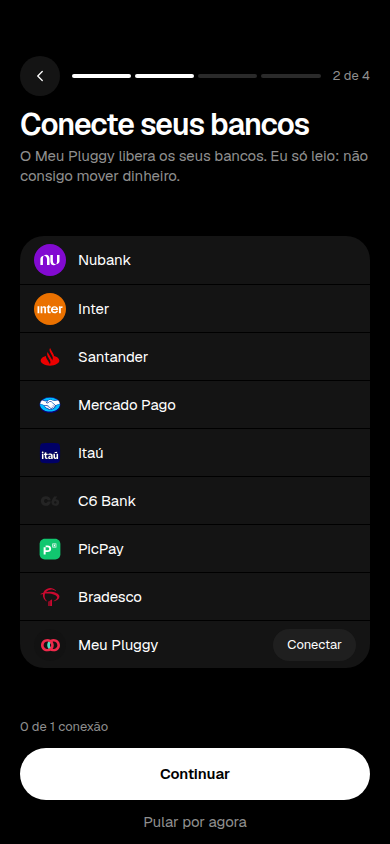
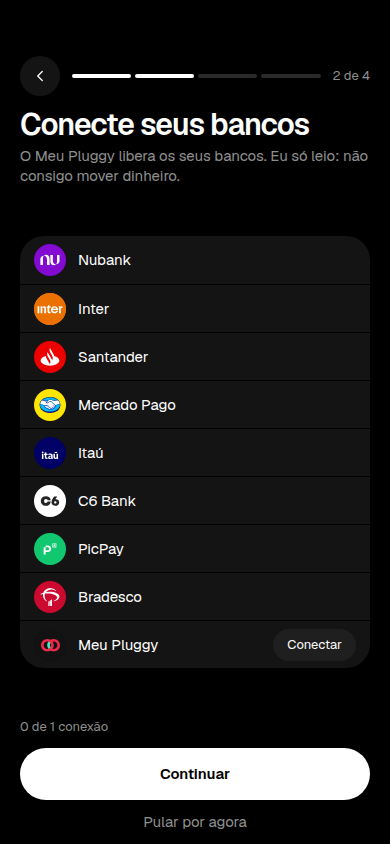
fix(mobile): cada banco fica num círculo com a cor da marca
O C6 sumia no card escuro. Santander, Bradesco e Mercado Pago também ficavam sem disco. Agora todos ocupam o círculo inteiro: símbolo claro sobre a cor da marca, C6 escuro no branco e Mercado Pago no amarelo.

Changed region(s): [[0.0923, 0.4005, 0.1846, 0.7393]]

diff --git a/apps/mobile/src/features/onboarding/bank-svgs.ts b/apps/mobile/src/features/onboarding/bank-svgs.ts
@@ -1,7 +1,7 @@
 /**
  * Ícones dos bancos na primeira vez. Copiados dos ícones públicos dos conectores
  * (https://cdn.pluggy.ai/assets/connector-icons/). As marcas são das instituições;
- * o uso é só para identificá-las. O Nubank vem em branco para ficar sobre o roxo da marca.
+ * o uso é só para identificá-las. Nubank, Santander e Bradesco vêm em branco, sobre o disco da marca.
  * O Meu Pluggy usa o ícone do conector 200 (sandbox.svg).
  */
 export const BANK_SVGS = {
@@ -10,7 +10,7 @@ export const BANK_SVGS = {
 	inter:
 		'<svg width="512" height="512" viewBox="0 0 512 512" fill="none" xmlns="http://www.w3.org/2000/svg">\n<g clip-path="url(#clip0_7456_10788)">\n<path d="M0 85.3333C0 38.205 38.205 0 85.3333 0H426.667C473.795 0 512 38.205 512 85.3333V426.667C512 473.795 473.795 512 426.667 512H85.3333C38.205 512 0 473.795 0 426.667V85.3333Z" fill="#EA7100"/>\n<path d="M243.737 299.079H266.58V323.666H247.596C227.615 323.666 215.353 316.757 215.353 291.423V236.524H201.784C199.419 236.524 198.174 233.66 199.792 231.918L239.068 187.351C240.749 185.546 243.799 186.728 243.799 189.218V211.937H266.456V236.524H243.799V299.079H243.737ZM162.321 210.132C148.69 210.132 138.481 217.975 133.502 230.299H132.568V211.875H105.492V323.666H133.938V237.022H152.922C161.201 237.022 164.251 238.765 164.251 247.603V323.666H192.696V242.063C192.634 219.593 181.866 210.132 162.321 210.132ZM56.3188 323.666H84.7645V211.875H56.3188V323.666ZM428.478 231.669H427.295V211.875H399.036V323.666H429.163V238.578H455.679V210.132H452.006C438.064 210.132 431.901 216.294 428.478 231.669ZM385.841 264.907V273.372H300.566C302.122 289.992 312.517 301.009 328.576 301.009C342.954 301.009 353.349 293.353 355.465 283.892H385.778C379.429 307.482 357.768 325.533 328.14 325.533C293.594 325.533 270.128 300.947 270.128 268.704C270.128 236.461 292.785 210.132 328.887 210.132C362.997 210.132 385.841 233.598 385.841 264.907ZM301.437 252.769H356.461C352.166 241.566 343.079 233.536 329.012 233.536C316.687 233.598 305.857 240.072 301.437 252.769Z" fill="white"/>\n</g>\n<defs>\n<clipPath id="clip0_7456_10788">\n<rect width="512" height="512" fill="white"/>\n</clipPath>\n</defs>\n</svg>',
 	santander:
-		'<svg xmlns="http://www.w3.org/2000/svg" viewBox="0 0 500 500"><g id="Camada_2" data-name="Camada 2"><g id="fundo"><rect fill="none" width="500" height="500" rx="250"/></g><g id="logos"><path fill="#ec0000" d="M313.37,234.25A64.11,64.11,0,0,0,305,205.2L259.16,126A62.35,62.35,0,0,1,252,106.72L250,110a63.79,63.79,0,0,0,0,63.57l36.66,63.56a63.79,63.79,0,0,1,0,63.57l-2,3.32A59.68,59.68,0,0,0,277.49,285L244,226.65,222.51,189.6a63.44,63.44,0,0,1-7.22-19.11l-1.95,3.31a63.88,63.88,0,0,0-.19,63.37h0L250,300.74a63.79,63.79,0,0,1,0,63.57l-1.95,3.32a64.47,64.47,0,0,0-7.21-19.11L195,269a63,63,0,0,1-8.38-34.51c-49.14,12.67-83.07,40-83.07,71.56,0,43.87,65.52,79.36,146.44,79.36S396.44,349.88,396.44,306C396.44,274.42,362.51,247.12,313.37,234.25Z"/></g></g></svg>',
+		'<svg xmlns="http://www.w3.org/2000/svg" viewBox="0 0 500 500"><g id="Camada_2" data-name="Camada 2"><g id="fundo"><rect fill="none" width="500" height="500" rx="250"/></g><g id="logos"><path fill="#FFFFFF" d="M313.37,234.25A64.11,64.11,0,0,0,305,205.2L259.16,126A62.35,62.35,0,0,1,252,106.72L250,110a63.79,63.79,0,0,0,0,63.57l36.66,63.56a63.79,63.79,0,0,1,0,63.57l-2,3.32A59.68,59.68,0,0,0,277.49,285L244,226.65,222.51,189.6a63.44,63.44,0,0,1-7.22-19.11l-1.95,3.31a63.88,63.88,0,0,0-.19,63.37h0L250,300.74a63.79,63.79,0,0,1,0,63.57l-1.95,3.32a64.47,64.47,0,0,0-7.21-19.11L195,269a63,63,0,0,1-8.38-34.51c-49.14,12.67-83.07,40-83.07,71.56,0,43.87,65.52,79.36,146.44,79.36S396.44,349.88,396.44,306C396.44,274.42,362.51,247.12,313.37,234.25Z"/></g></g></svg>',
 	mercadopago:
 		'<svg width="512" height="512" viewBox="0 0 512 512" fill="none" xmlns="http://www.w3.org/2000/svg">\n<path d="M254.839 133.781C164.892 134.683 92.4993 186.979 93.137 250.594C93.7747 314.207 167.252 370.034 257.2 369.131C347.148 368.229 419.487 310.935 418.85 247.326C418.211 183.716 344.783 132.878 254.839 133.781Z" fill="#00BCFF"/>\n<path d="M202.646 213.889C202.566 214.065 200.993 215.902 202.04 217.354C204.592 220.886 212.392 222.847 220.238 220.816C224.911 219.607 230.861 214.266 236.625 209.107C242.122 203.477 248.446 198.923 255.327 195.641C259.727 193.809 264.551 193.622 269.061 195.107C273.645 196.936 277.91 199.626 281.666 203.06C292.674 212.025 337.002 253.951 344.663 261.197C367.866 250.246 391.917 241.622 416.524 235.429C413.097 213.715 401.058 193.104 382.745 176.996C357.563 188.997 324.656 196.36 294.263 180.345C283.939 175.308 272.805 172.627 261.53 172.465C237.553 173.323 227.278 184.9 216.406 197.157L202.646 213.889Z" fill="white"/>\n<path d="M342.925 265.824C342.403 265.318 290.803 216.393 279.127 206.889C275.053 202.962 270.052 200.401 264.711 199.506C262.415 199.327 260.107 199.596 257.896 200.3C251.087 203.215 244.804 207.445 239.338 212.794C232.924 218.56 226.874 223.988 221.22 225.449C214.387 227.073 207.25 225.961 201.08 222.311C199.634 221.354 198.463 219.965 197.702 218.302C197.279 217.028 197.209 215.642 197.5 214.325C197.791 213.007 198.431 211.816 199.336 210.903L213.272 193.897C214.896 192.073 216.525 190.244 218.202 188.448C213.86 189.214 209.574 190.326 205.378 191.777C200.546 193.606 195.511 194.697 190.411 195.019C185.263 194.495 180.144 193.664 175.075 192.527C159.961 188.768 145.189 183.471 130.951 176.705C111.066 193.408 98.2123 213.799 94.5654 236.563C97.4545 237.375 105.023 239.202 106.979 239.661C152.467 250.359 166.713 261.706 169.301 264.081C170.789 262.19 172.648 260.697 174.736 259.715C176.824 258.733 179.087 258.288 181.355 258.413C183.622 258.538 185.835 259.23 187.83 260.436C189.823 261.642 191.543 263.331 192.862 265.378C195.895 262.611 199.699 261.088 203.635 261.062C205.846 261.064 208.042 261.467 210.137 262.254C212.166 262.949 214.039 264.114 215.629 265.671C217.22 267.229 218.492 269.143 219.361 271.286C221.335 270.273 223.483 269.745 225.66 269.739C228.264 269.749 230.839 270.35 233.227 271.504C236.547 273.183 239.256 276.057 240.911 279.656C242.566 283.255 243.066 287.365 242.333 291.315C242.932 291.237 243.535 291.196 244.139 291.191C248.909 291.151 253.501 293.205 256.91 296.9C260.319 300.595 262.266 305.632 262.324 310.904C262.358 314.183 261.651 317.417 260.267 320.315C264.995 323.441 270.436 324.993 275.937 324.784C277.308 324.771 278.662 324.445 279.914 323.826C281.166 323.207 282.287 322.309 283.209 321.187C283.655 320.479 284.118 319.649 283.673 319.058L270.712 303.467C270.712 303.467 268.584 301.284 269.271 300.428C269.981 299.546 271.297 300.787 272.23 301.63C278.805 307.579 286.848 316.579 286.848 316.579C286.989 316.676 287.523 317.822 290.47 318.376C292.233 318.696 294.034 318.621 295.769 318.156C297.503 317.69 299.133 316.843 300.564 315.664C301.372 314.901 302.11 314.049 302.765 313.123C302.721 313.172 302.672 313.216 302.618 313.253C303.501 311.872 303.936 310.202 303.853 308.511C303.77 306.821 303.172 305.209 302.158 303.939L287.025 285.533C287.025 285.533 284.864 283.366 285.589 282.487C286.23 281.716 287.614 282.855 288.562 283.705C293.335 288.032 300.097 295.378 306.575 302.26C308.727 303.836 311.274 304.617 313.85 304.493C316.428 304.369 318.9 303.344 320.913 301.567C322.567 300.535 323.929 299.016 324.847 297.178C325.765 295.341 326.203 293.257 326.115 291.158C325.765 288.535 324.629 286.118 322.889 284.292L302.251 261.801C302.251 261.801 300.068 259.785 300.824 258.751C301.442 257.877 302.844 259.109 303.777 259.95C310.339 265.902 328.122 283.574 328.122 283.574C330.211 285.033 332.645 285.77 335.113 285.691C337.58 285.612 339.969 284.72 341.973 283.13C343.262 282.278 344.342 281.091 345.12 279.671C345.899 278.252 346.351 276.644 346.439 274.985C346.483 273.27 346.191 271.565 345.585 269.983C344.979 268.403 344.071 266.984 342.925 265.824Z" fill="white"/>\n<path d="M244.181 295.582C241.788 295.978 239.426 296.583 237.118 297.388C236.864 297.211 237.295 295.798 237.582 294.985C237.882 294.179 241.912 280.266 231.699 275.555C229.411 274.229 226.798 273.753 224.25 274.199C221.701 274.646 219.353 275.99 217.553 278.032C217.133 278.528 216.939 278.489 216.886 277.869C216.799 275.28 215.981 272.783 214.548 270.732C213.114 268.679 211.136 267.173 208.891 266.426C205.711 265.379 202.313 265.496 199.202 266.758C196.092 268.019 193.436 270.36 191.629 273.43C191.274 270.697 190.098 268.175 188.288 266.272C186.478 264.368 184.143 263.192 181.657 262.936C179.172 262.68 176.683 263.357 174.592 264.858C172.501 266.359 170.931 268.597 170.134 271.209C169.338 273.822 169.361 276.657 170.202 279.257C171.043 281.856 172.652 284.068 174.767 285.535C176.884 287.002 179.384 287.638 181.865 287.342C184.345 287.044 186.661 285.831 188.438 283.898C188.502 283.962 188.528 284.077 188.499 284.311C187.785 288.117 188.335 292.085 190.049 295.486C191.764 298.887 194.528 301.494 197.834 302.831C199.621 303.572 201.551 303.783 203.432 303.442C205.312 303.102 207.079 302.221 208.556 300.891C209.432 300.195 209.577 300.483 209.462 301.403C209.112 304.252 209.655 310.339 217.415 313.719C219.339 314.738 221.507 315.043 223.599 314.591C225.691 314.14 227.593 312.955 229.025 311.212C230.009 310.206 230.282 310.366 230.349 311.911C230.503 314.94 231.459 317.854 233.097 320.29C234.735 322.727 236.983 324.581 239.563 325.619C242.143 326.658 244.939 326.838 247.607 326.135C250.274 325.432 252.696 323.88 254.57 321.668C256.443 319.456 257.686 316.685 258.147 313.695C258.606 310.706 258.262 307.631 257.156 304.854C256.049 302.076 254.23 299.717 251.924 298.068C249.619 296.42 246.927 295.556 244.183 295.582H244.181Z" fill="white"/>\n<path d="M254.763 129.012C163.102 129.932 89.3414 184.575 90.0044 250.684C90.0215 252.393 90.0502 257.111 90.0562 257.71C90.7596 327.852 156.273 384 257.289 382.987C358.916 381.967 422.697 324.533 421.994 254.392L421.924 247.354C421.259 181.244 346.416 128.092 254.763 129.012ZM414.307 234.13C390.452 240.219 367.19 248.844 344.844 259.883C328.945 244.853 292.214 210.243 282.28 202.17C278.424 198.656 274.05 195.904 269.35 194.034C267.303 193.343 265.174 192.997 263.036 193.008C260.313 193.075 257.617 193.606 255.042 194.58C248.155 197.826 241.824 202.352 236.323 207.965L236.01 208.244C230.343 213.326 224.486 218.585 220.026 219.728C218.075 220.237 216.078 220.504 214.072 220.527C212.062 220.733 210.036 220.496 208.107 219.832C206.178 219.168 204.386 218.088 202.836 216.656C202.553 216.264 202.73 215.628 203.369 214.707L203.451 214.583L217.141 197.945C227.868 185.842 238.002 174.414 261.579 173.579C261.971 173.564 262.367 173.551 262.755 173.548C273.471 173.923 284.026 176.573 293.844 181.355C307.043 188.477 321.535 192.165 336.21 192.134C352.26 191.667 368.015 187.332 382.378 179.432C399.36 194.907 410.709 213.636 414.307 234.13ZM254.863 136.098C303.514 135.61 347.204 150.59 376.715 174.577C364.01 181.154 350.209 184.76 336.173 185.17C322.44 185.184 308.879 181.721 296.531 175.046C285.86 169.795 274.363 166.915 262.695 166.57C262.252 166.574 261.804 166.587 261.365 166.602C247.315 166.515 233.713 172.012 223.04 182.09C216.52 182.533 210.081 183.9 203.879 186.157C199.521 187.814 194.982 188.823 190.381 189.158C188.647 189.175 185.524 189.031 185.243 189.02C168.658 185.965 152.374 181.161 136.612 174.674C165.592 151.432 207.764 136.571 254.863 136.098ZM130.917 179.522C151.251 188.472 175.88 195.293 183.652 195.772C185.819 195.907 188.13 196.155 190.438 196.137C195.63 195.807 200.756 194.7 205.675 192.848C208.606 191.907 211.838 190.881 215.242 190.127C214.339 191.122 213.442 192.132 212.539 193.153L198.638 210.122C197.578 211.181 196.835 212.572 196.506 214.109C196.179 215.647 196.28 217.259 196.797 218.734C197.633 220.597 198.932 222.159 200.542 223.236C205.122 226.033 210.293 227.428 215.52 227.274C217.522 227.27 219.518 227.018 221.47 226.525C227.356 225.006 233.491 219.491 239.984 213.665C245.36 208.429 251.519 204.266 258.187 201.359C259.849 200.853 261.562 200.576 263.286 200.534C263.728 200.526 264.171 200.551 264.609 200.609C269.772 201.492 274.603 203.979 278.541 207.779C290.19 217.261 341.796 266.18 342.304 266.663C343.329 267.716 344.141 268.999 344.684 270.425C345.227 271.851 345.49 273.389 345.455 274.935C345.377 276.418 344.97 277.856 344.27 279.122C343.569 280.388 342.599 281.443 341.44 282.195C339.468 283.684 337.148 284.509 334.759 284.573C332.661 284.596 330.6 283.959 328.814 282.736C328.627 282.567 310.937 264.989 304.429 259.087C303.613 258.153 302.544 257.537 301.385 257.332C301.129 257.329 300.875 257.391 300.643 257.515C300.412 257.638 300.209 257.818 300.052 258.043C299.052 259.433 300.207 261.337 301.559 262.578L322.243 285.116C323.785 286.744 324.801 288.886 325.134 291.213C325.205 293.118 324.799 295.008 323.957 296.671C323.117 298.335 321.876 299.707 320.371 300.636C318.261 302.314 315.746 303.262 313.145 303.36C311.068 303.38 309.029 302.719 307.289 301.459L304.324 298.293C298.901 292.514 293.303 286.535 289.212 282.838C288.385 281.915 287.308 281.311 286.146 281.119C285.903 281.117 285.665 281.17 285.444 281.278C285.223 281.385 285.024 281.543 284.863 281.741C284.407 282.313 284.094 283.336 285.27 285.018C285.585 285.469 285.935 285.892 286.314 286.28L301.424 304.667C302.296 305.737 302.813 307.104 302.89 308.541C302.966 309.979 302.596 311.401 301.842 312.573L301.32 313.317C300.888 313.845 300.429 314.344 299.944 314.813C297.85 316.548 295.295 317.471 292.675 317.441C291.999 317.451 291.323 317.395 290.656 317.273C289.567 317.189 288.53 316.718 287.7 315.932L287.512 315.725C286.691 314.801 279.082 306.384 272.801 300.701C272.019 299.801 270.992 299.208 269.878 299.013C269.624 299.013 269.372 299.075 269.14 299.192C268.909 299.308 268.703 299.478 268.535 299.691C267.323 301.195 269.194 303.404 269.986 304.215L282.867 319.612C282.761 319.957 282.604 320.28 282.4 320.564C281.95 321.266 280.426 322.99 275.813 323.676C275.254 323.761 274.69 323.805 274.125 323.807C269.741 323.54 265.466 322.185 261.617 319.843C262.948 316.631 263.523 313.097 263.289 309.57C263.053 306.043 262.016 302.636 260.274 299.666C258.532 296.696 256.14 294.26 253.321 292.584C250.501 290.907 247.346 290.043 244.148 290.074C243.924 290.076 243.685 290.086 243.462 290.096C243.966 286.094 243.28 282.017 241.507 278.478C239.733 274.939 236.97 272.131 233.631 270.478C231.119 269.263 228.409 268.632 225.671 268.622C223.681 268.632 221.711 269.047 219.86 269.847C217.884 265.714 214.509 262.609 210.474 261.213C208.276 260.377 205.968 259.951 203.644 259.955C199.834 259.969 196.129 261.323 193.066 263.822C191.642 261.886 189.866 260.304 187.852 259.179C185.839 258.053 183.634 257.411 181.381 257.294C179.13 257.176 176.882 257.586 174.785 258.496C172.688 259.407 170.789 260.797 169.215 262.576C165.217 259.267 149.386 248.384 107.199 238.244C105.185 237.761 100.607 236.362 97.7243 235.46C101.463 214.538 113.274 195.347 130.918 179.522H130.917ZM210.186 299.837L209.727 299.391L209.267 299.396C208.794 299.439 208.346 299.645 207.986 299.984C206.193 301.54 204 302.428 201.721 302.522C200.519 302.523 199.327 302.279 198.203 301.803C195.102 300.56 192.513 298.115 190.916 294.924C189.319 291.732 188.823 288.011 189.52 284.45C189.568 284.192 189.552 283.923 189.474 283.673C189.397 283.423 189.26 283.2 189.079 283.027L188.384 282.412L187.747 283.097C185.892 285.129 183.392 286.279 180.779 286.304C178.829 286.332 176.913 285.738 175.26 284.592C173.606 283.446 172.285 281.798 171.458 279.844C170.629 277.891 170.328 275.716 170.59 273.581C170.853 271.446 171.667 269.44 172.935 267.806C174.204 266.174 175.874 264.98 177.743 264.371C179.613 263.762 181.602 263.762 183.472 264.372C185.344 264.982 187.017 266.177 188.291 267.812C189.565 269.446 190.386 271.452 190.654 273.587L191.034 276.59L192.502 274.03C194.157 271.125 196.636 268.908 199.552 267.727C202.469 266.546 205.659 266.467 208.625 267.5C210.674 268.188 212.478 269.568 213.782 271.446C215.086 273.324 215.827 275.605 215.899 277.97C216.023 279.427 216.963 279.489 217.145 279.487C217.372 279.467 217.592 279.395 217.793 279.277C217.993 279.158 218.169 278.995 218.31 278.796C219.261 277.676 220.41 276.783 221.687 276.171C222.962 275.561 224.339 275.244 225.73 275.243C227.659 275.27 229.563 275.724 231.331 276.58C240.911 281.007 236.722 294.447 236.673 294.584C235.872 296.812 235.849 297.794 236.625 298.351L237.004 298.543L237.283 298.54C237.918 298.455 238.538 298.269 239.125 297.988C240.742 297.261 242.455 296.825 244.197 296.695H244.202C245.911 296.678 247.606 297.034 249.191 297.741C250.776 298.448 252.22 299.494 253.441 300.817C254.662 302.141 255.635 303.716 256.307 305.455C256.977 307.193 257.332 309.06 257.35 310.948C257.369 312.837 257.051 314.709 256.414 316.46C255.778 318.211 254.835 319.806 253.64 321.153C252.446 322.501 251.022 323.574 249.451 324.312C247.88 325.05 246.192 325.438 244.484 325.454C241.134 325.51 237.892 324.124 235.445 321.589C232.997 319.052 231.536 315.566 231.37 311.866C231.344 311.208 231.264 309.459 229.921 309.472C229.311 309.556 228.753 309.889 228.354 310.407C226.714 312.377 224.432 313.544 222.01 313.654C220.563 313.635 219.132 313.307 217.796 312.688C210.356 309.438 210.198 303.816 210.475 301.552C210.545 301.261 210.555 300.955 210.506 300.659C210.455 300.362 210.347 300.081 210.186 299.837ZM257.126 361.82C168.991 362.705 97.0403 312.89 96.4153 250.56C96.4037 248.069 96.507 245.578 96.7251 243.099C97.4303 243.278 104.448 245.057 105.901 245.403C148.993 255.528 163.307 266.361 165.728 268.413C164.735 271.128 164.364 274.075 164.648 276.991C164.932 279.906 165.864 282.7 167.359 285.125C168.853 287.549 170.866 289.53 173.218 290.89C175.57 292.25 178.188 292.948 180.839 292.921C181.83 292.913 182.819 292.802 183.791 292.589C184.461 296.112 185.947 299.383 188.105 302.082C190.262 304.782 193.016 306.815 196.096 307.986C197.933 308.76 199.882 309.156 201.847 309.152C203.083 309.147 204.314 308.966 205.509 308.614C207.019 312.034 209.354 314.928 212.255 316.978C215.156 319.028 218.511 320.153 221.951 320.23C223.628 320.213 225.289 319.868 226.858 319.211C228.081 322.424 230.01 325.25 232.469 327.434C234.928 329.619 237.839 331.091 240.94 331.721C244.041 332.349 247.233 332.114 250.227 331.036C253.223 329.959 255.925 328.072 258.092 325.547C263.026 328.656 268.558 330.421 274.227 330.695C275.041 330.684 275.852 330.619 276.659 330.5C278.75 330.409 280.799 329.826 282.669 328.79C284.538 327.754 286.186 326.289 287.502 324.493C287.75 324.107 287.971 323.701 288.163 323.279C289.839 323.825 291.576 324.106 293.323 324.117C297.096 323.996 300.729 322.518 303.671 319.906C306.78 317.601 308.946 314.038 309.703 309.982C309.709 309.937 309.714 309.893 309.716 309.847C310.863 310.093 312.029 310.211 313.198 310.199C317.013 310.109 320.714 308.769 323.835 306.35C326.212 304.793 328.163 302.554 329.485 299.872C330.805 297.189 331.447 294.161 331.342 291.106C332.503 291.361 333.686 291.484 334.871 291.475C338.43 291.397 341.89 290.18 344.834 287.973C346.79 286.622 348.429 284.778 349.617 282.591C350.805 280.405 351.507 277.938 351.667 275.392C351.868 271.849 351.06 268.323 349.357 265.309C370.702 255.419 392.764 247.531 415.312 241.731C415.46 243.596 415.551 245.473 415.57 247.362C416.195 309.688 345.259 360.936 257.127 361.821L257.126 361.82Z" fill="#0A0080"/>\n</svg>',
 	itau: '<svg width="512" height="512" viewBox="0 0 512 512" fill="none" xmlns="http://www.w3.org/2000/svg">\n<g clip-path="url(#clip0_25283_1048)">\n<path d="M133.103 410.302C114.679 406.298 105.061 395.241 101.698 378.897C94.8019 350.214 90 304.389 90 256C90 207.611 94.8019 161.786 101.698 133.103C105.061 116.603 114.679 105.702 133.103 101.542C163.068 94.1607 207.454 90 256 90C304.546 90 348.931 94.1607 378.897 101.542C397.321 105.702 406.939 116.603 410.302 133.103C417.198 161.786 422 207.454 422 256C422 304.546 417.198 350.214 410.302 378.897C406.939 395.241 397.321 406.298 378.897 410.302C348.931 417.839 304.546 422 256 422C207.454 422 163.068 417.839 133.103 410.302ZM138.874 258.722C147.366 258.722 153.294 252.951 153.294 244.786C153.294 236.621 147.366 230.851 138.874 230.851C130.381 230.851 124.454 236.621 124.454 244.786C124.454 252.951 130.381 258.722 138.874 258.722ZM151.057 350.542V267.385H126.705V350.542H151.057ZM172.53 286.293V321.859C172.53 342.049 183.102 352.138 201.854 352.138C208.58 352.138 214.194 351.34 216.915 350.527V331.947C215.148 332.431 211.942 332.901 208.266 332.901C200.415 332.901 196.895 329.054 196.895 320.248V286.279H218.041V267.371H196.895V242.207L172.544 246.524V267.356H160.375V286.265H172.544L172.53 286.293ZM254.247 352.636C264.022 352.636 271.075 348.632 276.034 341.907L276.347 350.556H299.103V301.682C299.103 277.972 285.809 265.305 262.084 265.305C249.916 265.305 239.813 267.228 230.038 270.919V290.468C239.656 286.778 249.26 284.541 258.237 284.541C269.451 284.541 275.706 289.67 275.706 298.647C273.783 298.49 270.577 298.334 267.527 298.334C241.894 298.334 225.707 308.906 225.707 327.017C225.707 342.719 236.764 352.65 254.233 352.65L254.247 352.636ZM269.793 313.38C271.717 313.38 274.766 313.537 275.877 313.708V320.277C275.877 329.097 269.95 335.181 261.457 335.181C253.92 335.181 249.275 331.819 249.275 325.093C249.275 317.399 256.641 313.395 269.779 313.395L269.793 313.38ZM339.171 352.636C349.259 352.636 356.156 348.946 361.599 341.579L361.912 350.556H385.309V267.399H360.958V316.43C360.958 326.518 355.985 332.93 347.82 332.93C339.655 332.93 335.481 327.487 335.481 317.384V267.399H311.129V321.403C311.129 340.468 322.03 352.65 339.171 352.65V352.636ZM369.778 256.171V235.026L329.239 242.236V256.171H369.778Z" fill="#000066"/>\n<path d="M138.865 258.746C147.358 258.746 153.285 252.975 153.285 244.81C153.285 236.646 147.358 230.875 138.865 230.875C130.373 230.875 124.445 236.646 124.445 244.81C124.445 252.975 130.373 258.746 138.865 258.746Z" fill="white"/>\n<path d="M151.07 267.344H126.719V350.501H151.07V267.344Z" fill="white"/>\n<path d="M172.514 286.305V321.87C172.514 342.061 183.086 352.149 201.838 352.149C208.563 352.149 214.178 351.351 216.899 350.539V331.958C215.132 332.443 211.926 332.913 208.25 332.913C200.399 332.913 196.879 329.066 196.879 320.26V286.291H218.025V267.382H196.879V242.219L172.528 246.536V267.368H160.359V286.276H172.528L172.514 286.305Z" fill="white"/>\n<path d="M262.065 265.32C249.896 265.32 239.794 267.244 230.019 270.934V290.484C239.637 286.793 249.241 284.556 258.218 284.556C269.432 284.556 275.687 289.686 275.687 298.663C273.763 298.506 270.557 298.349 267.508 298.349C241.874 298.349 225.688 308.922 225.688 327.032C225.688 342.735 236.745 352.666 254.214 352.666C263.989 352.666 271.042 348.662 276 341.937L276.314 350.586H299.069V301.712C299.069 278.002 285.775 265.335 262.051 265.335L262.065 265.32ZM275.844 320.278C275.844 329.099 269.916 335.183 261.424 335.183C253.886 335.183 249.241 331.82 249.241 325.095C249.241 317.4 256.608 313.396 269.745 313.396C271.669 313.396 274.718 313.553 275.829 313.724V320.293L275.844 320.278Z" fill="white"/>\n<path d="M339.159 352.581C349.247 352.581 356.144 348.89 361.587 341.524L361.9 350.501H385.297V267.344H360.946V316.374C360.946 326.463 355.973 332.875 347.808 332.875C339.644 332.875 335.469 327.431 335.469 317.329V267.344H311.117V321.347C311.117 340.412 322.018 352.595 339.159 352.595V352.581Z" fill="white"/>\n<path d="M369.734 256.153V235.008L329.195 242.218V256.153H369.734Z" fill="white"/>\n</g>\n<defs>\n<clipPath id="clip0_25283_1048">\n<rect width="332" height="332" fill="white" transform="translate(90 90)"/>\n</clipPath>\n</defs>\n</svg>',
@@ -18,7 +18,7 @@ export const BANK_SVGS = {
 	picpay:
 		'<svg xmlns="http://www.w3.org/2000/svg" width="512" height="512" viewBox="0 0 512 512" fill="none">\n<path d="M90 173.001C90 127.161 127.161 90 173.001 90H338.999C384.839 90 422 127.161 422 173.001V338.999C422 384.839 384.839 422 338.999 422H173.001C127.161 422 90 384.839 90 338.999V173.001Z" fill="#11C76F"/>\n<path fill-rule="evenodd" clip-rule="evenodd" d="M216.452 199.601H186.197V226.466H214.802C232.945 226.466 243.252 235.273 243.252 251.343C243.252 267.825 232.945 276.839 214.802 276.839H186.197V226.466H154.269V344.004H186.197V303.708H216.452C253.151 303.708 274.18 283.795 274.18 250.212C274.18 218.279 253.151 199.601 216.452 199.601Z" fill="white"/>\n<path fill-rule="evenodd" clip-rule="evenodd" d="M293.609 232.072H357.731V167.996H293.609V232.072ZM304.308 221.396H347.059V178.68H304.308V221.396ZM336.348 210.72H314.973V189.36H336.348V210.72Z" fill="white"/>\n</svg>',
 	bradesco:
-		'<svg xmlns="http://www.w3.org/2000/svg" viewBox="0 0 500 500"><g id="Camada_2" data-name="Camada 2"><g id="fundo"><rect fill="none" width="500" height="500" rx="250"/></g><g id="logos"><path fill="#cc092f" d="M241.85,169a330.7,330.7,0,0,0-54.4,4.72,103.35,103.35,0,0,1,81.6-39.57c24.45,0,48.9,9.22,65.36,22.93,3,2.48,5.26,2.7,7.54.45s2.06-4.49-.45-7.42c-21.49-25-53-41.82-90.28-41.15-48.68.9-90.05,31.71-105.82,74.43a207.53,207.53,0,0,0-39.31,16.42c-3.2,1.8-4.34,4-3.2,6.74,1.14,2.48,3.43,3.38,6.63,2.48,10-2.93,20.34-5.4,31.08-7.65a88,88,0,0,0-1.83,17.54c-.91,39.35,20.11,76.68,52.57,97.15,3.2,2,5.94,2,7.77-.45s1.6-4.73-1.14-7.2c-20.57-18.44-32-45.87-32-73.08a96.32,96.32,0,0,1,8-38.9c10.74-.9,22.4-1.58,35.2-1.58,83.19,0,153.35,27.43,153.35,63.41,0,18.22-23.08,36.43-50.51,48.58-6.63,2.92-7.31,4.94-6.4,7.87.92,2.69,3.89,3.59,7.32,2.47,48-15.74,84.33-41.6,84.33-72.86C397.26,201.85,328.7,169,241.85,169Z"/><path fill="#cc092f" d="M281.57,385.19V294.14c0-3.49-3.37-4.76-6.14-3.18l-23.15,13.32v85.3l24.86,0A4.43,4.43,0,0,0,281.57,385.19Z"/><path fill="#cc092f" d="M224.1,323.8v63a2.86,2.86,0,0,0,2.86,2.86h17.51V308.77L227,318.84A5.36,5.36,0,0,0,224.1,323.8Z"/></g></g></svg>',
+		'<svg xmlns="http://www.w3.org/2000/svg" viewBox="0 0 500 500"><g id="Camada_2" data-name="Camada 2"><g id="fundo"><rect fill="none" width="500" height="500" rx="250"/></g><g id="logos"><path fill="#FFFFFF" d="M241.85,169a330.7,330.7,0,0,0-54.4,4.72,103.35,103.35,0,0,1,81.6-39.57c24.45,0,48.9,9.22,65.36,22.93,3,2.48,5.26,2.7,7.54.45s2.06-4.49-.45-7.42c-21.49-25-53-41.82-90.28-41.15-48.68.9-90.05,31.71-105.82,74.43a207.53,207.53,0,0,0-39.31,16.42c-3.2,1.8-4.34,4-3.2,6.74,1.14,2.48,3.43,3.38,6.63,2.48,10-2.93,20.34-5.4,31.08-7.65a88,88,0,0,0-1.83,17.54c-.91,39.35,20.11,76.68,52.57,97.15,3.2,2,5.94,2,7.77-.45s1.6-4.73-1.14-7.2c-20.57-18.44-32-45.87-32-73.08a96.32,96.32,0,0,1,8-38.9c10.74-.9,22.4-1.58,35.2-1.58,83.19,0,153.35,27.43,153.35,63.41,0,18.22-23.08,36.43-50.51,48.58-6.63,2.92-7.31,4.94-6.4,7.87.92,2.69,3.89,3.59,7.32,2.47,48-15.74,84.33-41.6,84.33-72.86C397.26,201.85,328.7,169,241.85,169Z"/><path fill="#FFFFFF" d="M281.57,385.19V294.14c0-3.49-3.37-4.76-6.14-3.18l-23.15,13.32v85.3l24.86,0A4.43,4.43,0,0,0,281.57,385.19Z"/><path fill="#FFFFFF" d="M224.1,323.8v63a2.86,2.86,0,0,0,2.86,2.86h17.51V308.77L227,318.84A5.36,5.36,0,0,0,224.1,323.8Z"/></g></g></svg>',
 	"meu-pluggy":
 		'<svg width="32" height="32" viewBox="0 0 32 32" fill="none" xmlns="http://www.w3.org/2000/svg">\n<circle cx="16" cy="16" r="16" fill="#121212"/>\n<path fill-rule="evenodd" clip-rule="evenodd" d="M16.1278 20.825C15.7767 20.825 15.4255 20.6996 15.1579 20.449C13.8978 19.2693 13.2041 17.7017 13.2041 16.0342C13.2041 14.3838 13.8855 12.8279 15.1228 11.6529C15.6546 11.1479 16.5232 11.1415 17.062 11.6392C17.6018 12.1364 17.6081 12.9493 17.0766 13.4541C16.3484 14.1461 15.9471 15.0625 15.9471 16.0342C15.9471 17.0161 16.3558 17.9394 17.0977 18.6339C17.6331 19.1352 17.6331 19.948 17.0973 20.4491C16.8297 20.6996 16.4786 20.825 16.1278 20.825" fill="#50E2C6"/>\n<mask id="mask0_113_17" style="mask-type:luminance" maskUnits="userSpaceOnUse" x="7" y="10" width="19" height="13">\n<path fill-rule="evenodd" clip-rule="evenodd" d="M7 10H26V22.5947H7V10Z" fill="white"/>\n</mask>\n<g mask="url(#mask0_113_17)">\n<path fill-rule="evenodd" clip-rule="evenodd" d="M19.6095 20.0059C19.2783 20.0059 18.9547 19.9597 18.6427 19.8784C19.3592 18.8609 19.7804 17.6271 19.7804 16.2978C19.7804 14.9679 19.3592 13.7339 18.6427 12.7166C18.9545 12.6351 19.2779 12.5894 19.6095 12.5894C21.6843 12.5894 23.3725 14.2527 23.3725 16.2978C23.3725 18.3421 21.6843 20.0059 19.6095 20.0059M9.62745 16.2978C9.62745 14.2527 11.3153 12.5894 13.3903 12.5894C15.4652 12.5894 17.1532 14.2527 17.1532 16.2978C17.1532 18.3421 15.4652 20.0059 13.3903 20.0059C11.3153 20.0059 9.62745 18.3421 9.62745 16.2978M19.6093 10C18.4999 10 17.4362 10.2773 16.4957 10.7963C15.5754 10.2901 14.5168 10 13.3899 10C9.86639 10 6.99969 12.8251 6.99969 16.2975C6.99969 19.7696 9.86639 22.5947 13.3899 22.5947C14.5168 22.5947 15.5758 22.3044 16.4959 21.7978C17.4373 22.317 18.5014 22.5947 19.6093 22.5947C23.133 22.5947 25.9997 19.7696 25.9997 16.2975C25.9997 12.8251 23.133 10 19.6093 10" fill="#EF294B"/>\n</g>\n</svg>',
 } as const;

diff --git a/apps/mobile/src/features/onboarding/OnboardingLogo.tsx b/apps/mobile/src/features/onboarding/OnboardingLogo.tsx
@@ -1,9 +1,22 @@
-import { banks, radius } from "@orbita/tokens";
+import { banks, colors, radius } from "@orbita/tokens";
 import { View } from "react-native";
 import { SvgXml } from "react-native-svg";
 import { BANK_SVGS, type OnboardingLogoId } from "./bank-svgs.ts";
 
-/** Logo quadrado do banco, cortado em círculo. O Nubank fica branco sobre o roxo da marca. */
+/** Cada ícone ocupa o círculo inteiro, com a cor da marca atrás do símbolo. */
+const DISC: Record<OnboardingLogoId, string> = {
+	nubank: banks.nubank,
+	inter: banks.inter,
+	santander: banks.santander,
+	mercadopago: banks.mercadoPagoDisc,
+	itau: banks.itauDisc,
+	c6: colors.text,
+	picpay: banks.picpay,
+	bradesco: banks.bradescoDisc,
+	"meu-pluggy": banks.pluggy,
+};
+
+/** Logo do banco em círculo preenchido com a cor da marca. */
 export function OnboardingLogo({ id, size = 32 }: { id: OnboardingLogoId; size?: number }) {
 	return (
 		<View
@@ -14,7 +27,7 @@ export function OnboardingLogo({ id, size = 32 }: { id: OnboardingLogoId; size?:
 				height: size,
 				borderRadius: radius.pill,
 				overflow: "hidden",
-				backgroundColor: id === "nubank" ? banks.nubank : "transparent",
+				backgroundColor: DISC[id],
 			}}
 		>
 			<SvgXml xml={BANK_SVGS[id]} width={size} height={size} />

diff --git a/packages/tokens/src/banks.ts b/packages/tokens/src/banks.ts
@@ -4,9 +4,17 @@ export const banks = {
 	inter: "#EA7100",
 	santander: "#EC0000",
 	mercadoPago: "#00BCFF",
+	/** Disco amarelo do ícone do Mercado Pago. O glifo em cima é azul. */
+	mercadoPagoDisc: "#FFE600",
 	itau: "#EC7000",
+	/** Disco azul-marinho do ícone do Itaú. */
+	itauDisc: "#000066",
 	picpay: "#11C76F",
 	c6: "#242424",
 	bradesco: "#CD2375",
+	/** Disco vermelho do ícone do Bradesco, atrás do símbolo em branco. */
+	bradescoDisc: "#CC092F",
+	/** Disco do ícone do Meu Pluggy. */
+	pluggy: "#121212",
 	generic: "#3A3A3A",
 } as const;
